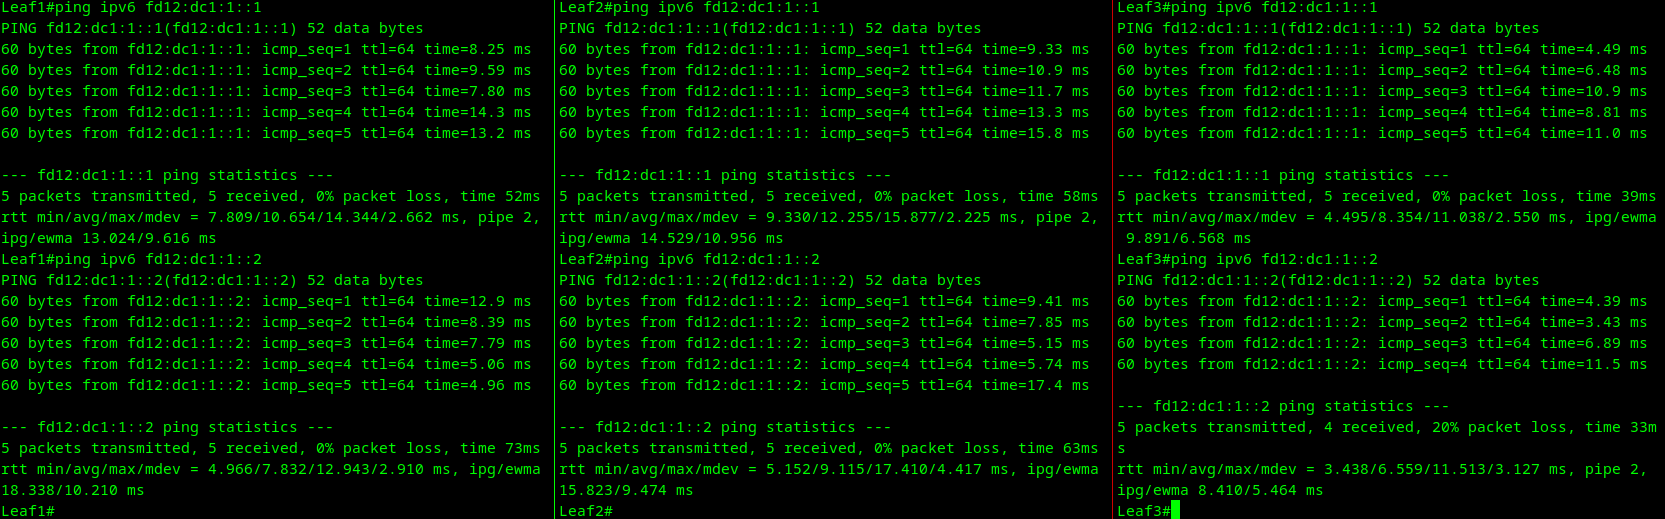
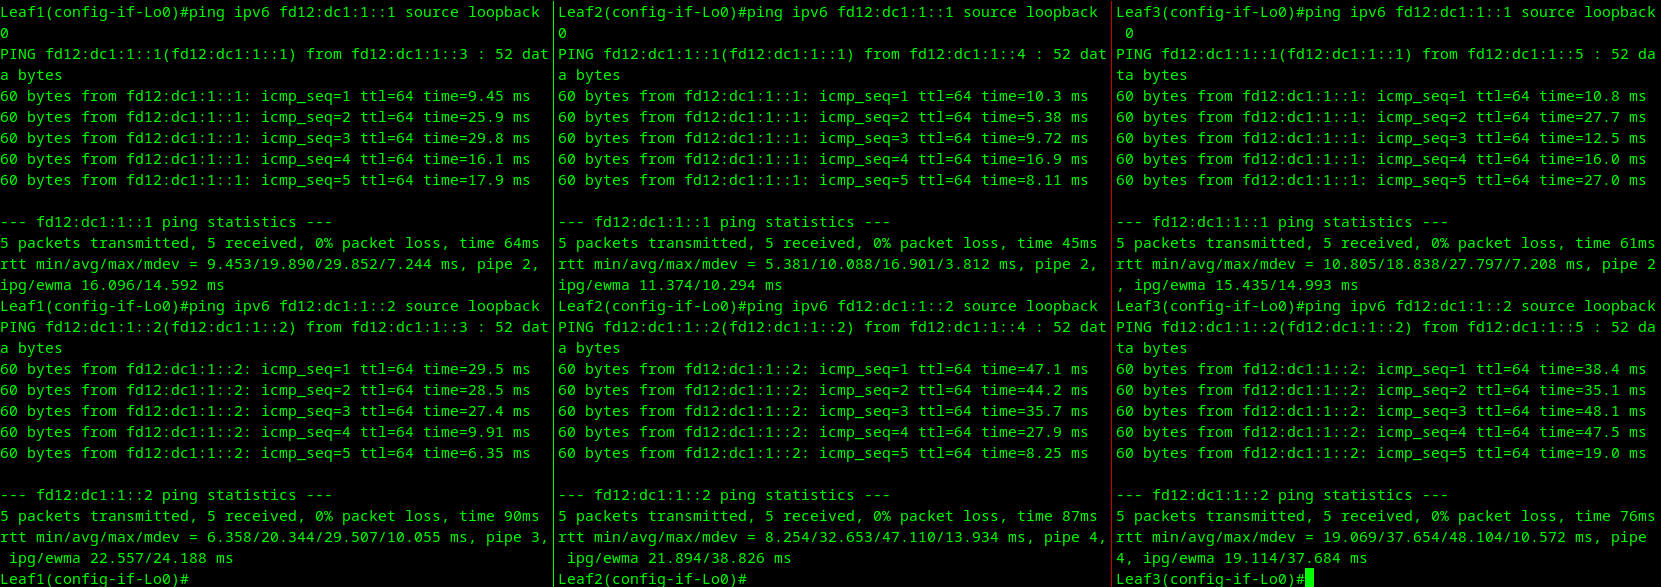
Modify readme file and add some pictures

Changed region(s): [[0.0, 0.0, 1.0, 1.0]]

diff --git a/hometasks/dc-ht-4/README.md b/hometasks/dc-ht-4/README.md
@@ -276,7 +276,7 @@ Spine1#
 ![alt-text](https://github.com/Gord-Gord/dc-network-design/blob/main/hometasks/dc-ht-4/spines_bfd_peers.png)
 ![alt-text](https://github.com/Gord-Gord/dc-network-design/blob/main/hometasks/dc-ht-4/leaves_bfd_peers.png)
 
-- Далее смотрим установилось ли у нас BGP-соседство между Spine- и Leaf-коммутаторами. Об этом нам скажет статус Up в колонке State в строке с указанием  System-id BGP-соседа:
+- Далее смотрим установилось ли у нас BGP-соседство между Spine- и Leaf-коммутаторами. Об этом нам скажет статус Estab в колонке State в строке с указанием IPv6-адреса BGP-соседа:
 
 ![alt-text](https://github.com/Gord-Gord/dc-network-design/blob/main/hometasks/dc-ht-4/spines_bgp_neighbors.png)
 ![alt-text](https://github.com/Gord-Gord/dc-network-design/blob/main/hometasks/dc-ht-4/leaves_bgp_neighbors.png)  
